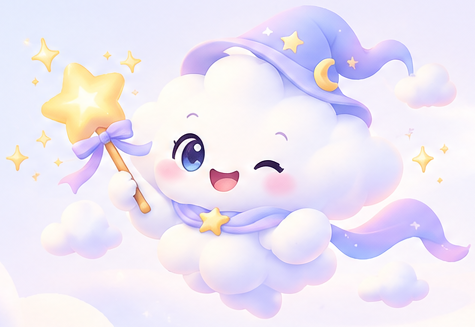
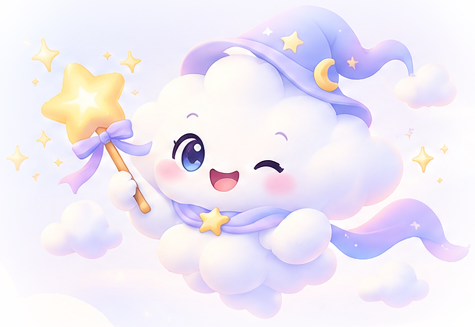
Add files via upload

diff --git a/app.py b/app.py
@@ -46,28 +46,48 @@ CARDS = [
 
 CSS = """
 <style>
-.stApp {background: radial-gradient(ellipse at 4% 8%,#e8e7ff 0%,transparent 38%),radial-gradient(ellipse at 96% 26%,#f4eafd 0%,transparent 34%),linear-gradient(155deg,#f4f8ff 0%,#f9f5ff 52%,#fdf8f3 100%);}
-.block-container {max-width:1160px;padding-top:1.25rem;}
-.hero {display:flex;align-items:center;justify-content:center;gap:30px;padding:12px 12px 24px;min-height:230px;}
-.hero-mascot {width:300px;max-width:36%;height:auto;object-fit:contain;border-radius:28px;mix-blend-mode:multiply;}
+.stApp {
+ background:
+ radial-gradient(ellipse at 12% 3%, rgba(213,216,255,.88) 0%,transparent 37%),
+ radial-gradient(ellipse at 94% 10%,rgba(231,203,255,.72) 0%,transparent 35%),
+ radial-gradient(ellipse at 12% 90%,rgba(242,218,255,.56) 0%,transparent 44%),
+ linear-gradient(160deg,#f2f1ff 0%,#faf4ff 53%,#fff4fa 100%);
+ color:#202f60;
+}
+.block-container {max-width:1160px;padding-top:1.2rem;padding-bottom:4rem;}
+/* Pastel cloud decorations stay behind the interactive app */
+.stApp::before {content:"";position:fixed;pointer-events:none;z-index:0;inset:0;
+ background:
+ radial-gradient(ellipse 110px 66px at 3% 70%,rgba(255,255,255,.7) 0 70%,transparent 72%),
+ radial-gradient(ellipse 140px 90px at 97% 67%,rgba(255,255,255,.7) 0 70%,transparent 72%),
+ radial-gradient(ellipse 180px 95px at 10% 101%,rgba(255,255,255,.82) 0 70%,transparent 72%),
+ radial-gradient(ellipse 190px 100px at 90% 101%,rgba(255,255,255,.8) 0 70%,transparent 72%);
+}
+.block-container > div {position:relative;z-index:1;}
+.hero {display:flex;align-items:center;justify-content:center;gap:28px;padding:0 10px 22px;min-height:265px;}
+.hero-mascot {width:345px;max-width:39%;height:auto;object-fit:contain;filter:drop-shadow(0 16px 24px rgba(147,128,218,.13));}
 .hero-copy {text-align:left;}
-@media(max-width:650px){.hero{gap:8px;min-height:130px;padding:8px 0 18px}.hero-mascot{width:38%;max-width:38%}.hero h1{font-size:1.8rem!important}.hero p{font-size:.85rem!important}}
-.hero h1 {font-size:3.2rem;color:#38456f;margin:0;letter-spacing:-.04em;}
-.hero p {color:#727b9a;font-size:1.08rem;margin:8px 0;}
-.cloud-label {min-height:106px;background:white;border:1px solid #e2e7fa;border-radius:25px;padding:14px 20px;box-shadow:0 10px 30px #9ca8d526;text-align:center;margin:8px 0 18px;color:#505d86;}
+.hero h1 {font-size:3.35rem;color:#202e67;margin:0;letter-spacing:-.045em;font-weight:850;line-height:1.14;}
+.hero p {color:#65749f;font-size:1.14rem;margin:17px 0 0;}
+.hero-star {color:#9c7af0;font-size:.65em;vertical-align:middle;}
+.cloud-label {min-height:112px;background:rgba(255,255,255,.85);border:1px solid #e7e2ff;border-radius:23px;padding:18px 15px;box-shadow:0 10px 27px #a99bdb25;text-align:center;margin:8px 0 10px;color:#344477;font-size:1.05rem;}
+.cloud-label small {display:inline-block;margin-top:7px;font-size:.82rem;color:#68769f;line-height:1.6;}
 .step-line {display:flex;justify-content:center;align-items:center;gap:10px;margin:12px auto;flex-wrap:wrap;}
 .step-cloud {padding:9px 15px;border-radius:30px;background:#fff;box-shadow:0 5px 16px #a8b6d73a;color:#53618c;font-size:.87rem;}
 .step-arrow {color:#a6add1;}
-section[data-testid="stSidebar"] {background:#f4f3fd;}
-div.stButton > button {border-radius:18px;min-height:3rem;border:1px solid #d8dff5;background:white;color:#45517d;white-space:normal;height:auto;padding:12px 14px;}
+section[data-testid="stSidebar"] {background:#f3efff;}
+div.stButton > button {border-radius:16px;min-height:3rem;border:1px solid #dcd5ff;background:rgba(255,255,255,.86);color:#5965a4;white-space:normal;height:auto;padding:11px 14px;font-weight:650;box-shadow:0 5px 16px rgba(138,124,212,.08);}
 div.stButton > button:hover {border-color:#a58bda;color:#6853a6;background:#f9f5ff;}
-div.stButton > button[kind="primary"] {background:#7465c8;color:white;border-color:#7465c8;}
+div.stButton > button[kind="primary"] {background:linear-gradient(100deg,#9c81e9,#7767e6);color:white;border-color:#9481e7;box-shadow:0 8px 20px #a491e944;}
+div.stButton > button[kind="primary"]:hover {background:linear-gradient(100deg,#9174e3,#6d59df);color:white;}
+textarea {background:rgba(249,250,255,.92)!important;border:1px solid #dfe2ff!important;border-radius:17px!important;}
 @keyframes cloudHop {0%{transform:translateY(0) scale(1)}35%{transform:translateY(-18px) scale(1.035)}70%{transform:translateY(-4px)}100%{transform:translateY(0)}}
 .fairy-hop img {animation:cloudHop 1.1s ease-in-out;}
 .journal {background:#fffaf0;border:1px solid #e9dbc2;border-radius:22px;padding:24px;color:#574d45;}
 .journal h2 {color:#63513f;margin-top:0;}
 .journal .thought {padding:10px 0;border-bottom:1px solid #e7dccd;}
 .journal .note {font-size:.9rem;color:#806c5c;}
+@media(max-width:650px){.hero{gap:8px;min-height:135px;padding:5px 0 16px}.hero-mascot{width:42%;max-width:42%}.hero h1{font-size:1.85rem}.hero p{font-size:.83rem;margin-top:7px}.cloud-label{min-height:112px;padding:13px 7px;font-size:.9rem}.cloud-label small{font-size:.7rem}}
 </style>
 """
 st.markdown(CSS, unsafe_allow_html=True)
@@ -178,7 +198,7 @@ with st.sidebar:
             reset()
             st.rerun()
 
-st.markdown(f'<div class="hero"><img class="hero-mascot" src="{img_uri(BASE / "cloud_fairy.png")}" alt="Cloud fairy mascot"/><div class="hero-copy"><h1>☁ {tr("망상회로", "Daydream Circuit")}</h1><p>{tr("생각의 씨앗을 심어봐.", "Every journey of thought begins with you.")}</p></div></div>', unsafe_allow_html=True)
+st.markdown(f'<div class="hero"><img class="hero-mascot" src="{img_uri(BASE / "cloud_fairy.png")}" alt="Cloud fairy mascot"/><div class="hero-copy"><h1>☁ {tr("망상회로", "Daydream Circuit")}<span class="hero-star"> ✦</span></h1><p>{tr("생각의 씨앗을 심어봐.", "Every journey of thought begins with you.")}</p></div></div>', unsafe_allow_html=True)
 
 if st.session_state.stage == "start":
     st.markdown(f"### {tr('오늘은 어떤 생각을 훈련할까?', 'Which kind of thinking will you practice?')}")
